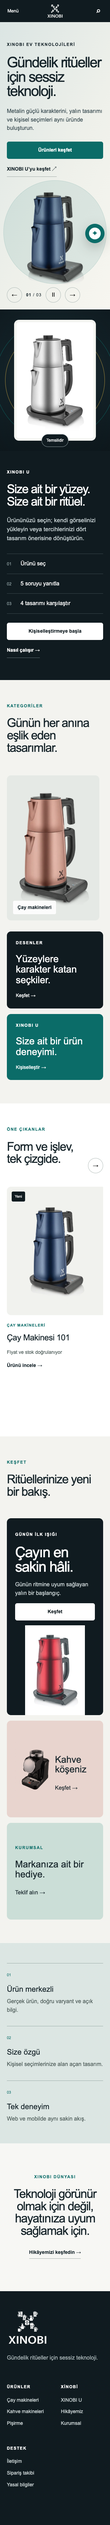
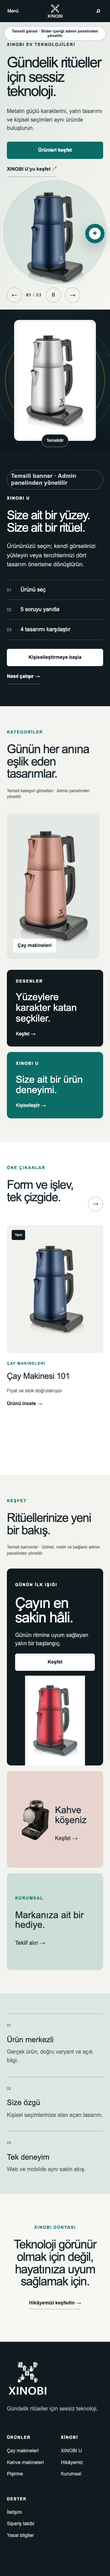
docs(design): label admin managed placeholders

Changed region(s): [[0.0, 0.0, 1.0, 0.9979], [0.8438, 0.9044, 0.875, 0.9356], [0.8438, 0.0, 0.875, 0.0312]]

diff --git a/design/screens/WEB-001/prototype.html b/design/screens/WEB-001/prototype.html
@@ -23,6 +23,7 @@
 
     <main id="icerik">
       <section class="hero" aria-labelledby="hero-title">
+        <p class="admin-note hero-note">Temsili görsel · Slider içeriği admin panelinden yönetilir</p>
         <div class="hero-copy">
           <p class="eyebrow">XINOBI EV TEKNOLOJİLERİ</p>
           <h1 id="hero-title">Gündelik ritüeller için sessiz teknoloji.</h1>
@@ -44,6 +45,7 @@
           <span class="sample">Temsilidir</span>
         </div>
         <div class="u-copy">
+          <p class="admin-note admin-note-dark">Temsili banner · Admin panelinden yönetilir</p>
           <p class="eyebrow">XINOBI U</p>
           <h2>Size ait bir yüzey.<br />Size ait bir ritüel.</h2>
           <p>Ürününüzü seçin; kendi görselinizi yükleyin veya tercihlerinizi dört tasarım önerisine dönüştürün.</p>
@@ -53,7 +55,7 @@
       </section>
 
       <section class="section categories" id="kategoriler">
-        <div class="section-head"><div><p class="eyebrow dark">KATEGORİLER</p><h2>Günün her anına eşlik eden tasarımlar.</h2></div><a class="text-link" href="#">Tümünü gör →</a></div>
+        <div class="section-head"><div><p class="eyebrow dark">KATEGORİLER</p><h2>Günün her anına eşlik eden tasarımlar.</h2><p class="admin-inline">Temsili kategori görselleri · Admin panelinden yönetilir</p></div><a class="text-link" href="#">Tümünü gör →</a></div>
         <div class="category-grid">
           <a class="category-card tall" href="#"><img src="../../../apps/web/public/assets/products/tea-maker-101-rose-gold.webp" alt="Rose gold çay makinesi" /><span>Çay makineleri</span></a>
           <a class="category-card" href="#"><img src="../../../apps/web/public/assets/products/coffee-maker-101-gold.webp" alt="Gold kahve makinesi" /><span>Kahve makineleri</span></a>
@@ -74,7 +76,7 @@
       </section>
 
       <section class="section discover" id="kesfet">
-        <div class="section-head"><div><p class="eyebrow dark">KEŞFET</p><h2>Ritüellerinize yeni bir bakış.</h2></div></div>
+        <div class="section-head"><div><p class="eyebrow dark">KEŞFET</p><h2>Ritüellerinize yeni bir bakış.</h2><p class="admin-inline">Temsili bannerlar · Görsel, metin ve bağlantı admin panelinden yönetilir</p></div></div>
         <div class="discover-grid">
           <article class="discover-main"><div><p class="eyebrow">GÜNÜN İLK IŞIĞI</p><h3>Çayın en sakin hâli.</h3><p>Günün ritmine uyum sağlayan yalın bir başlangıç.</p><a class="button light" href="#">Keşfet</a></div><img src="../../../apps/web/public/assets/products/tea-maker-101-red.webp" alt="Kırmızı çay makinesi" /></article>
           <article class="discover-small warm"><img src="../../../apps/web/public/assets/products/coffee-maker-102.webp" alt="Kahve makinesi" /><div><h3>Kahve köşeniz</h3><a href="#">Keşfet →</a></div></article>

diff --git a/design/screens/WEB-001/prototype.css b/design/screens/WEB-001/prototype.css
@@ -6,3 +6,5 @@
 /* Creative + Web Designer QA revizyonu */
 :focus-visible{outline:3px solid var(--focus);outline-offset:4px}.brand{height:64px;display:flex;align-items:center;padding:8px 0}.brand img{max-height:52px;object-fit:contain}.category-card:focus-visible img{transform:scale(1.025)}.u-art img{height:560px;max-width:72%;mix-blend-mode:normal;filter:none;background:#f4f5f1;border-radius:14px;padding:10px;box-shadow:0 22px 70px rgba(0,0,0,.24)}.sample{left:50%;bottom:18px;transform:translateX(-50%);background:var(--deep);padding:8px 14px;white-space:nowrap}.model{right:10%;bottom:10%}.special-categories{display:grid;grid-template-columns:1fr 1fr;gap:16px;margin-top:16px}.special-categories a{min-height:210px;border-radius:12px;padding:34px;display:flex;flex-direction:column;justify-content:flex-end;background:var(--deep);color:#fff}.special-categories a+a{background:var(--teal)}.special-categories strong{font-size:28px;line-height:1.1;font-weight:500;max-width:430px}.special-categories span{margin-top:18px;font-size:14px}.discover-main>div>p:not(.eyebrow){color:#c7d0d2}.nobi span{font-size:18px}.nobi b{font-weight:600}
 @media(max-width:767px){.brand{height:56px;padding:10px 0}.brand img{width:88px;max-height:42px}.u-art{min-height:410px}.u-art img{height:350px;max-width:78%;padding:7px}.sample{left:50%;bottom:12px;padding:8px 13px}.category-grid,.product-row{overflow-x:auto;scroll-snap-type:x mandatory;padding:4px 3px 18px}.category-card,.category-card.tall,.category-card.wide{min-width:84vw;scroll-snap-align:start}.product-card{min-width:90vw;scroll-snap-align:start}.special-categories{grid-template-columns:1fr;margin-top:14px}.special-categories a{min-height:180px;padding:26px}.nobi{bottom:max(16px,env(safe-area-inset-bottom))}.nobi span{font-size:18px}.nobi b{display:none}}
+.admin-note{position:absolute;z-index:5;margin:0;border:1px solid rgba(22,36,42,.28);background:rgba(255,255,255,.9);color:var(--ink);border-radius:999px;padding:7px 11px;font-size:11px;line-height:1.2;font-weight:600;letter-spacing:.01em}.hero-note{right:24px;top:24px}.admin-note-dark{position:static;display:inline-flex;background:transparent;color:#c9d2d4;border-color:#526267;margin-bottom:22px}.admin-inline{margin:16px 0 0;color:var(--muted);font-size:13px}.section-head .admin-inline{max-width:560px}
+@media(max-width:767px){.hero-note{top:12px;right:12px;left:12px;text-align:center}.admin-note-dark{margin-bottom:18px}.admin-inline{font-size:12px;line-height:1.45}}

diff --git a/Prompts/Faz00_Proje_Takip_ve_Kesintiden_Devam.md b/Prompts/Faz00_Proje_Takip_ve_Kesintiden_Devam.md
@@ -89,13 +89,13 @@ Blokaj nedeniyle bağımsız iş ve mock yapılabilir; ilgili faz **gerçek ente
 
 | Alan | Şu anki kayıt |
 |---|---|
-| Son güncelleme ve sorumlu | 2026-10-01 · Codex + Creative/Web Designer; WEB-001 hi-fi prototip ve beş responsive çıktı hazırlandı |
-| Aktif faz/görev ID | Faz02 / v0.23.0 F02-A12/A14 ortak WEB-001 tasarım kullanıcı incelemesi; üretim kodu değişmedi |
-| Repo/branch/HEAD | `main` · hi-fi tasarım öncesi `996a2a2`, origin/main ile eşit · origin `https://github.com/beyzaturgut/XinobiYeni.git` (private) |
+| Son güncelleme ve sorumlu | 2026-10-01 · Codex + Creative/Web Designer; WEB-001 admin yönetimli geçici içerik açıklamaları eklendi |
+| Aktif faz/görev ID | Faz02 / v0.23.1 F02-A12/A14 ortak WEB-001 tasarım kullanıcı incelemesi; üretim kodu değişmedi |
+| Repo/branch/HEAD | `main` · admin placeholder güncellemesi öncesi `476255b`, origin/main ile eşit · origin `https://github.com/beyzaturgut/XinobiYeni.git` (private) |
 | Geliştirme/test/canlı ortamları | macOS + Docker'sız CI; uzak SQL Server 2022 Express ve boş `XinobiYeniDB` TST-017'de doğrulandı; geçici TCP kesintileri izlenecek |
 | Son çalışan uygulama komutu/URL | IIS preview hâlen DEPLOY-001 `http://109.104.120.91:8014`; DEPLOY-002 tam paket hazır, RDP kurulumu bekliyor |
-| Son test komutu ve sonucu | TST-058: 320/390/768/1024/1440 render; her birinde 14/14 görsel, overflow=false, h1=1; Creative/Web QA revizyonları işlendi |
-| Değişen dosyalar / migration | `design/screens/WEB-001` HTML/CSS + beş PNG, renderer, changelog/envanter ve TST-058; uygulama/migration/deploy/API değişmedi |
+| Son test komutu ve sonucu | TST-059: dört admin yönetimli içerik alanı etiketlendi; beş renderda 14/14 görsel, overflow=false, h1=1 |
+| Değişen dosyalar / migration | WEB-001 prototip/PNG, wireframe geçici içerik kuralı, changelog ve TST-059; uygulama/migration/deploy/API değişmedi |
 | Aktif hata/yarım iş | Kullanıcı `ORTAK TASARIM ONAY` bekleniyor. Çalışan slider/mega menü/Nobi paneli, manuel ekran okuyucu ve gerçek cihaz QA henüz uygulama kabulü değil |
 | Sonraki en küçük güvenli adım | Masaüstü ve mobil WEB-001 çıktısını proje sahibine sun; onaylanırsa F02-A13/14 etkileşimli prototip/handoff, ardından ayrı `WEB TASARIM ONAY` kapısı |
 | Geri alma / devam noktası | `7a5b901` doğrulanmış ve pushlanmış API sözleşme testi tabanı; migration ve dış sistem yazımı yok |
@@ -104,6 +104,7 @@ Blokaj nedeniyle bağımsız iş ve mock yapılabilir; ilgili faz **gerçek ente
 
 | Tarih/saat TR | Faz/görev | Branch / commit öncesi-sonrası | Yapılan dosya ve işlem | Çalıştırılan komut/sonuç | Kanıt | Sonraki atomik adım | Kim |
 |---|---|---|---|---|---|---|---|
+| 2026-10-01 | Faz02 v0.23.1 / WEB-001 içerik yönetimi | `main` / `476255b` | Admin panelinden yönetilecek dört görsel/içerik alanı geçici `Temsili` açıklamayla ayrıştırıldı | TST-059: 5 kırılım × 14/14 görsel, overflow=false; app/deploy yok | `design/screens/WEB-001/*`, `test/2026-10-01/TST-059-*` | F02-A13/14 etkileşimli prototip/handoff | Codex + Creative Designer + Web Designer |
 | 2026-10-01 | Faz02 v0.23.0 / F02-A12–A14 | `main` / `996a2a2` | WEB-001 ortak hi-fi HTML/CSS; Creative/Web QA revizyonları; beş responsive PNG | TST-058: 5 kırılım × 14/14 görsel, overflow=false, h1=1; app/deploy yok | `design/screens/WEB-001/*`, `tools/render-web001.mjs`, `test/2026-10-01/TST-058-*` | Kullanıcı ortak tasarım onayı | Codex + Creative Designer + Web Designer |
 | 2026-10-01 | Faz02 v0.22.0 / F02-A11–A12 | `main` / `b3c94ab` | Ortak brief/art direction, Analiz2 fark matrisi, içerik/medya rehberi ve WEB-001 responsive wireframe | TST-057: K-01–K-21 21/21 ve zorunlu tasarım işaretleri başarılı; app/deploy yok | `design/creative-brief.md`, `analysis2-gap-matrix.md`, `art-direction.md`, `content-hierarchy.md`, `photography-media-guide.md`, `screens/WEB-001-*` | Kullanıcı ortak tasarım onayı; sonra hi-fi WEB-001 | Codex + Creative Designer + Web Designer |
 | 2026-10-01 | Tasarım/AI kararları / TST-056 | `main` / `43c05b3` | İki yön kaldırıldı; Creative + Web Designer tek ortak tasarıma bağlandı; Cloudflare Workers AI sağlayıcı olarak onaylandı | TST-056 karar/sınır işaretleri ve diff kontrolü başarılı; AI çağrısı/deploy yok | `ADR-002`, `Prompts/Faz00/01/02/10`, `design/faz02-open-acceptance.md`, `test/2026-10-01/TST-056-*` | Ortak tasarım üretimi için başlangıç onayı al | Codex |

diff --git a/test/INDEX.md b/test/INDEX.md
@@ -60,3 +60,4 @@
 | TST-056 | 01.10.2026 | Cloudflare Workers AI sağlayıcı ve Creative/Web Designer ortak tek tasarım kararı | Başarılı; ADR-002, Faz10 uygulama sınırı ve iki kullanıcı tasarım kapısı kayıtlı | DOCUMENT / ARCHITECTURE DECISION / DESIGN GOVERNANCE | `2026-10-01/TST-056-cloudflare-and-single-design-decision.md` |
 | TST-057 | 01.10.2026 | Creative Designer ve Web Designer ortak tasarım başlangıç paketi | Başarılı; K-01–K-21 21/21, ortak art direction, medya/içerik rehberi ve WEB-001 responsive wireframe hazır | DOCUMENT / DESIGN TRACEABILITY / RESPONSIVE WIREFRAME | `2026-10-01/TST-057-shared-creative-direction.md` |
 | TST-058 | 01.10.2026 | WEB-001 ortak yüksek doğruluklu HTML/CSS tasarım ve beş responsive render | Başarılı; her kırılımda 14/14 görsel, yatay taşma yok, Creative/Web QA revizyonları işlendi; etkileşim kabulü açık | DESIGN / BROWSER RENDER / RESPONSIVE / VISUAL QA | `2026-10-01/TST-058-web001-hifi-render.md` |
+| TST-059 | 01.10.2026 | WEB-001 admin yönetimli alanların geçici/temsili içerik açıklamaları | Başarılı; dört içerik alanı etiketlendi, beş responsive renderda 14/14 görsel ve taşmasız görünüm | DESIGN / CONTENT GOVERNANCE / RESPONSIVE RENDER | `2026-10-01/TST-059-web001-admin-placeholder-labels.md` |

diff --git a/test/2026-10-01/TST-059-web001-admin-placeholder-labels.md b/test/2026-10-01/TST-059-web001-admin-placeholder-labels.md
@@ -1,0 +1,27 @@
+# TST-059 — WEB-001 admin yönetimli geçici içerik etiketleri
+
+Tarih: 01.10.2026  
+Seviye: DESIGN / CONTENT GOVERNANCE / RESPONSIVE RENDER  
+Sonuç: **Başarılı**
+
+## Değişiklik
+
+- Hero slider: `Temsili görsel · Slider içeriği admin panelinden yönetilir`
+- XINOBI U: `Temsili banner · Admin panelinden yönetilir`
+- Kategoriler: `Temsili kategori görselleri · Admin panelinden yönetilir`
+- Keşfet: `Temsili bannerlar · Görsel, metin ve bağlantı admin panelinden yönetilir`
+
+Yeni sahte ticari görsel veya iddia üretilmedi; mevcut demo ürün varlıkları görünür açıklamayla kullanıldı.
+
+## Doğrulama
+
+```text
+desktop-1440: images=14, overflow=false, h1=1
+tablet-1024: images=14, overflow=false, h1=1
+tablet-768: images=14, overflow=false, h1=1
+mobile-390: images=14, overflow=false, h1=1
+mobile-320: images=14, overflow=false, h1=1
+git diff --check
+```
+
+Masaüstü ve 390 px çıktıları görsel olarak incelendi; etiketler okunur ve bölüm hiyerarşisini bozmuyor. Uygulama kodu, migration, API veya deployment değiştirilmedi.

diff --git a/design/screens/WEB-001-home-wireframe.md b/design/screens/WEB-001-home-wireframe.md
@@ -90,6 +90,10 @@ Durum: Kullanıcı `ORTAK TASARIM ONAY` incelemesine hazırlanıyor
 | Medya hatası | oranı koruyan marka placeholder; metin/CTA kaybolmaz |
 | CMS boşluğu | bölüm tamamen gizlenmezse editör kontrollü güvenli fallback; kırık kart gösterilmez |
 
+## Geçici içerik kuralı
+
+Admin panelinden yönetilecek slider, XINOBI U bannerı, kategori görseli ve keşfet bannerı gerçek CMS bağlantısı kurulana kadar görünür `Temsili` ve `Admin panelinden yönetilir` açıklaması taşır. Geçici içerik fiyat, stok, kampanya, teslimat veya üretim uygunluğu iddiası kurmaz. Gerçek onaylı içerik yayınlandığında etiket CMS yayın kanıtıyla kaldırılır.
+
 ## Tasarım onayı sonrası hi-fi üretim
 
 Wireframe onayından sonra aynı dosya ID'siyle 1440, 1024, 768, 390 ve 320 px yüksek doğruluklu kaynak/PNG çıktıları hazırlanır. Onaydan önce `apps/web` görsel düzeni değiştirilmez.

diff --git a/design/CHANGELOG.md b/design/CHANGELOG.md
@@ -1,5 +1,11 @@
 # Faz02 tasarım değişiklikleri
 
+## 0.23.1 - 01.10.2026
+
+- Admin panelinden yönetilecek hero slider, XINOBI U bannerı, kategori görselleri ve keşfet bannerlarına görünür geçici içerik açıklaması eklendi.
+- Gerçek CMS yayını oluşana kadar ilgili alanlar `Temsili` ve `Admin panelinden yönetilir` olarak ayrıştırıldı; sahte kampanya/ticari vaat üretilmedi.
+- 320/390/768/1024/1440 renderlar yenilendi; her görünümde 14/14 görsel yüklendi, yatay taşma oluşmadı.
+
 ## 0.23.0 - 01.10.2026
 
 - WEB-001 ortak yönü, üretim uygulamasından ayrı yüksek doğruluklu HTML/CSS tasarım prototipine dönüştürüldü.
